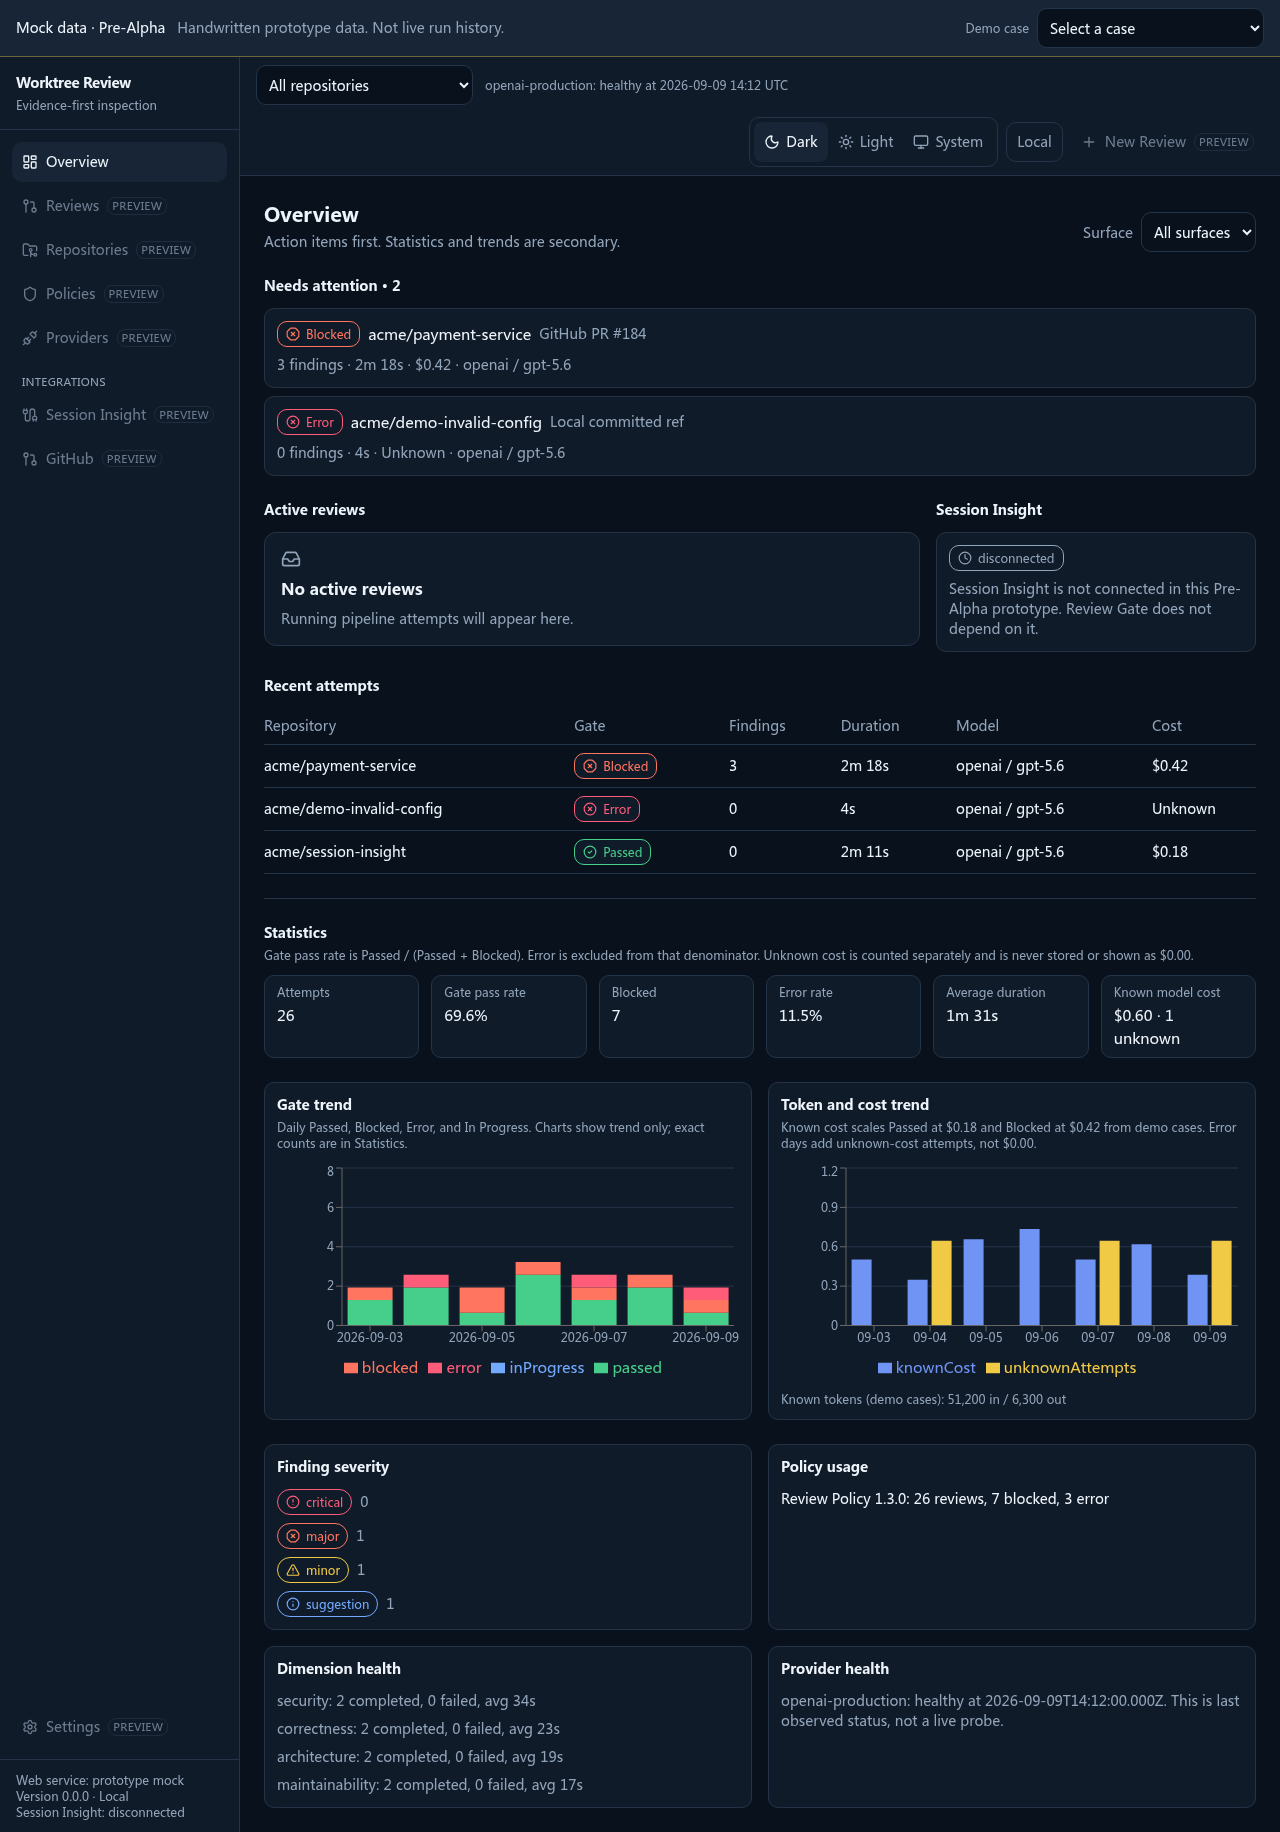
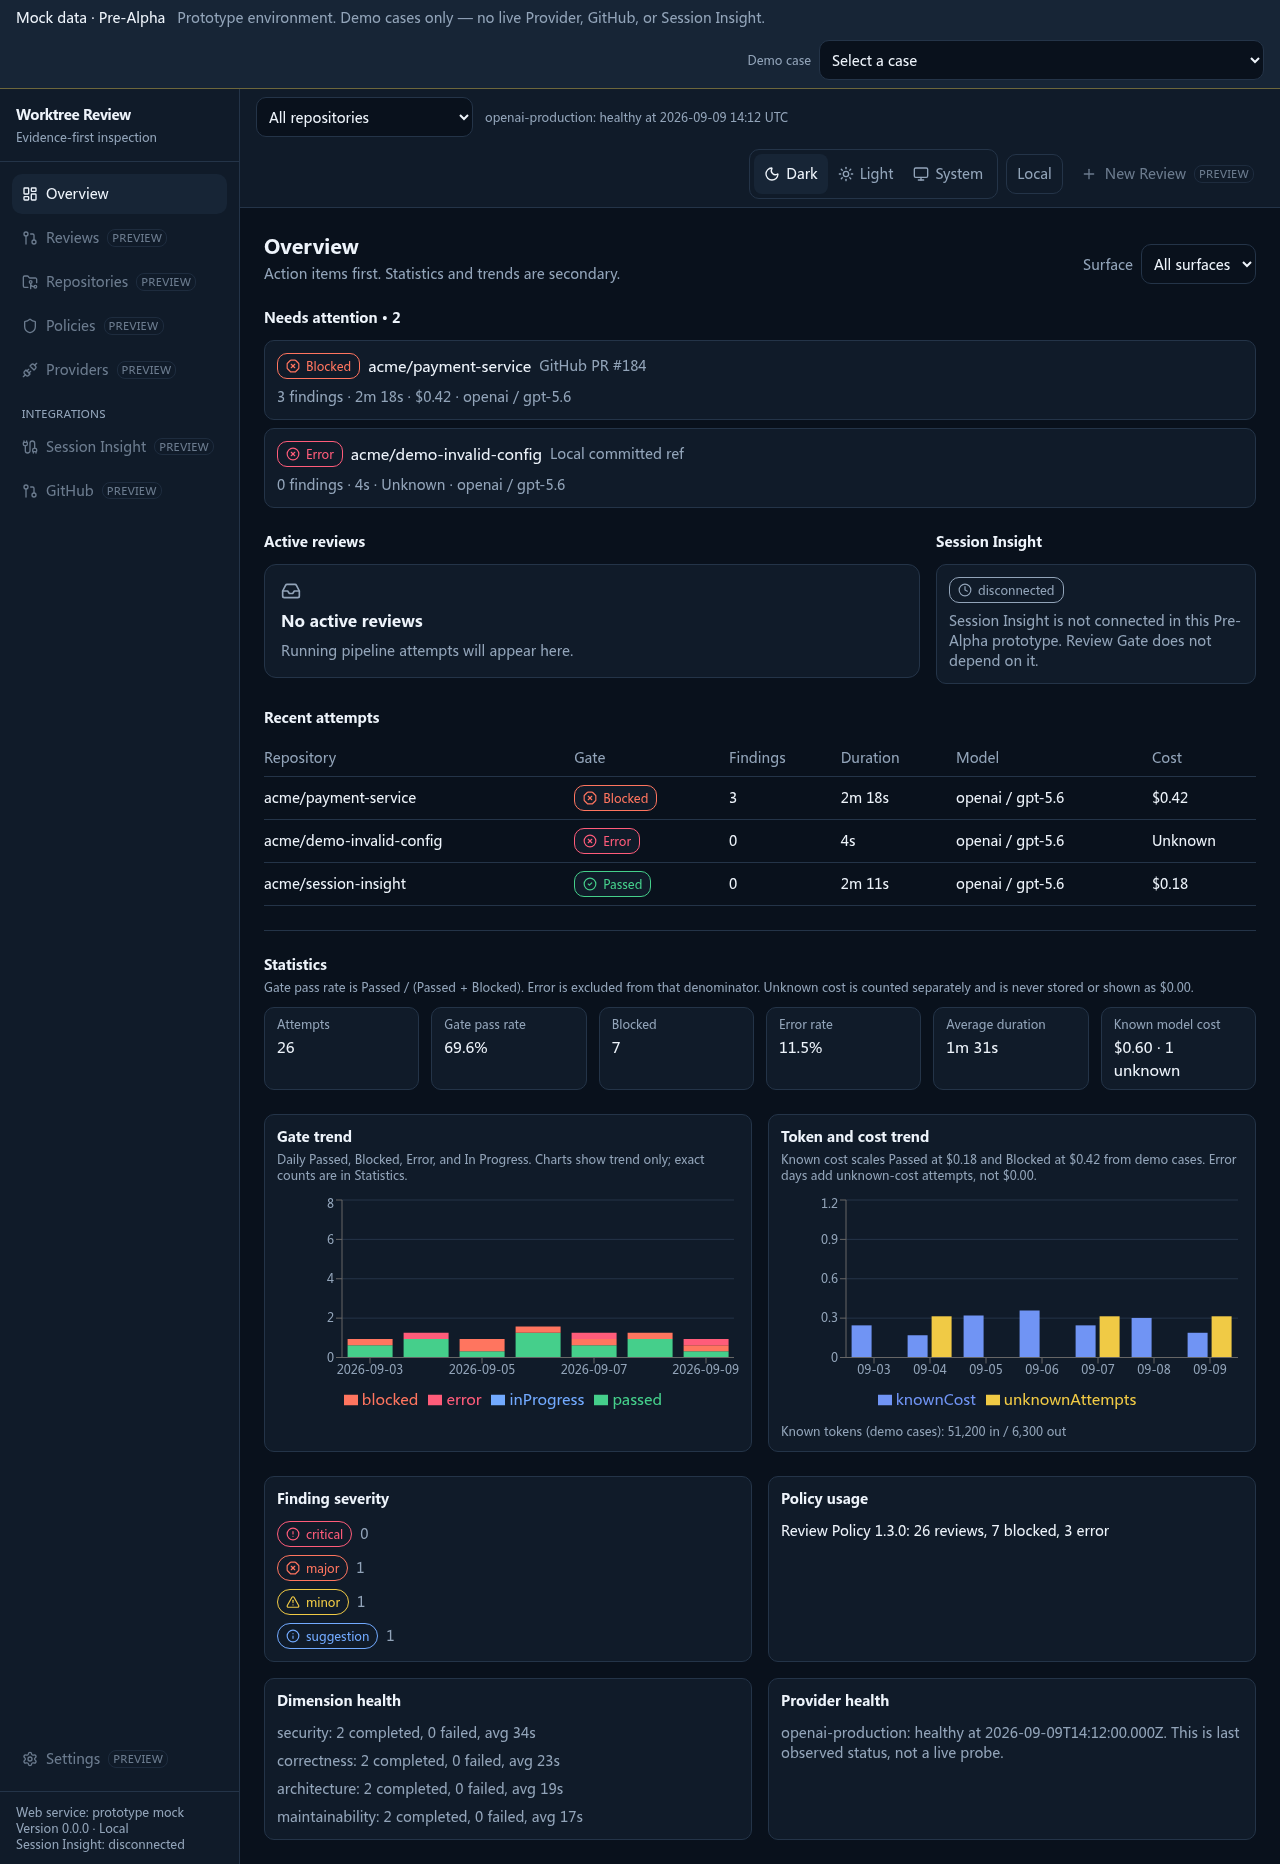
PM-010: Assemble prototype routes and unify environment disclosure
- Wire /reviews/:attemptId to the real ReviewDetailPage via a new
  ReviewDetailRoute that injects the shell's single ReviewDataSource
  (shared with Overview, demo case selector and environment badge);
  remove the foundation placeholder route and component.
- Keep one global Mock data · Pre-Alpha indicator in the shell banner;
  drop the duplicate page-level badge from ReviewDetailPage that also
  mislabeled real pipeline snapshots as prototype interaction data.
- Make the banner subtitle provenance-accurate for both handwritten
  mocks and recorded pipeline snapshots.
- Un-skip and repair the B-015 detail e2e specs that had never run
  against a real route: scope gate-state text to <main> so the case
  selector options cannot shadow them, use getByLabel for the Bypass
  disabled reason, exact match for 'Current attempt'.
- Regenerate A-014 Dashboard QA screenshots against the integrated UI.

diff --git a/frontend/e2e/review-detail.spec.ts b/frontend/e2e/review-detail.spec.ts
@@ -1,10 +1,10 @@
 /**
  * Review Detail browser scenarios (B-015).
  *
- * The /reviews/:attemptId route is assembled by PM-010 (router.tsx is
- * PM-owned). Until that handoff, these specs detect the foundation
- * placeholder and skip with an explicit reason instead of failing; after
- * wiring they exercise the real page end to end.
+ * The /reviews/:attemptId route was assembled by PM-010; these specs exercise
+ * the real page end to end inside the Application Shell. Text assertions are
+ * scoped to <main> so the demo case selector <option> labels in the shell
+ * banner (which repeat gate words like "Blocked"/"Error") cannot shadow them.
  */
 import { expect, test, type Page } from '@playwright/test'
 
@@ -14,11 +14,6 @@ const ERROR_ATTEMPT = 'attempt_01JY8E4R0R'
 
 async function gotoDetail(page: Page, attemptId: string) {
   await page.goto(`/reviews/${attemptId}`)
-  const placeholder = page.getByText('Empty route owned by the frontend foundation')
-  test.skip(
-    (await placeholder.count()) > 0,
-    'Review Detail route is wired by PM-010; run these specs after router assembly.',
-  )
 }
 
 test.describe('review detail', () => {
@@ -27,7 +22,7 @@ test.describe('review detail', () => {
 
     await expect(page.getByRole('heading', { name: 'acme/payment-service · PR #184' })).toBeVisible()
     await expect(page.getByText('Harden webhook authorization')).toBeVisible()
-    await expect(page.getByText('Blocked').first()).toBeVisible()
+    await expect(page.locator('main').getByText('Blocked').first()).toBeVisible()
     await expect(page.getByText('Authoritative attempt')).toBeVisible()
 
     for (const label of [
@@ -59,10 +54,10 @@ test.describe('review detail', () => {
 
     await page.getByRole('tab', { name: 'Coverage' }).click()
     await expect(page.getByText('Required Coverage')).toBeVisible()
-    await expect(page.getByText('Complete')).toBeVisible()
+    await expect(page.locator('main').getByText('Complete').first()).toBeVisible()
 
     await page.getByRole('tab', { name: 'Attempts' }).click()
-    await expect(page.getByText('Current attempt')).toBeVisible()
+    await expect(page.getByText('Current attempt', { exact: true })).toBeVisible()
 
     await page.getByRole('tab', { name: 'Identity & Provenance' }).click()
     await expect(page.getByText('github:acme/payment-service#184')).toBeVisible()
@@ -83,14 +78,14 @@ test.describe('review detail', () => {
 
     await expect(page.getByRole('button', { name: 'Retry' })).toBeDisabled()
     await expect(page.getByRole('button', { name: 'Bypass' })).toBeDisabled()
-    await expect(page.getByLabelText(/Bypass unavailable:/)).toBeVisible()
+    await expect(page.getByLabel(/Bypass unavailable:/)).toBeVisible()
     expect(remoteRequests).toEqual([])
   })
 
   test('error case never shows a bypass action', async ({ page }) => {
     await gotoDetail(page, ERROR_ATTEMPT)
 
-    await expect(page.getByText('Error').first()).toBeVisible()
+    await expect(page.locator('main').getByText('Error').first()).toBeVisible()
     await expect(page.getByText(/Run status: Failed/)).toBeVisible()
     await expect(page.getByRole('button', { name: 'Bypass' })).toHaveCount(0)
     await page.getByRole('tab', { name: 'Identity & Provenance' }).click()
@@ -114,6 +109,6 @@ test.describe('review detail', () => {
     await gotoDetail(page, BLOCKED_ATTEMPT)
 
     await expect(page.locator('html')).toHaveAttribute('data-theme', 'light')
-    await expect(page.getByText('Blocked').first()).toBeVisible()
+    await expect(page.locator('main').getByText('Blocked').first()).toBeVisible()
   })
 })

diff --git a/frontend/src/app/router.test.tsx b/frontend/src/app/router.test.tsx
@@ -4,7 +4,7 @@ import { afterEach, describe, expect, it } from 'vitest'
 import { OverviewPage } from '../pages/OverviewPage.tsx'
 import { ApplicationShell } from '../components/application-shell/ApplicationShell.tsx'
 import { DataSourceProvider } from './DataSourceProvider.tsx'
-import { ReviewDetailPlaceholder } from './ReviewDetailPlaceholder.tsx'
+import { ReviewDetailRoute } from './ReviewDetailRoute.tsx'
 import { ThemeProvider } from './ThemeProvider.tsx'
 import { stubMatchMedia } from '../test/match-media.ts'
 
@@ -30,7 +30,7 @@ function renderPath(path: string) {
         ),
         children: [
           { path: 'overview', element: <OverviewPage /> },
-          { path: 'reviews/:attemptId', element: <ReviewDetailPlaceholder /> },
+          { path: 'reviews/:attemptId', element: <ReviewDetailRoute /> },
         ],
       },
     ],
@@ -39,19 +39,28 @@ function renderPath(path: string) {
   return render(<RouterProvider router={router} />)
 }
 
-describe('empty routes', () => {
-  it('renders the Overview empty page', async () => {
+describe('assembled routes', () => {
+  it('renders the Overview dashboard', async () => {
     renderPath('/overview')
     await waitFor(() => {
       expect(screen.getByRole('heading', { name: 'Overview' })).toBeInTheDocument()
     })
   })
 
-  it('renders the Review Detail empty page for an attempt id', async () => {
+  it('renders the real Review Detail page for a fixture attempt id', async () => {
     renderPath('/reviews/attempt_01JY8R7F2W')
     await waitFor(() => {
-      expect(screen.getByRole('heading', { name: 'Review Detail' })).toBeInTheDocument()
+      expect(
+        screen.getByRole('heading', { name: 'acme/payment-service · PR #184' }),
+      ).toBeInTheDocument()
     })
-    expect(screen.getByTestId('attempt-id')).toHaveTextContent('attempt_01JY8R7F2W')
+  })
+
+  it('shows the unified Mock/Pre-Alpha badge and demo case selector on every route', async () => {
+    renderPath('/reviews/attempt_01JY8R7F2W')
+    await waitFor(() => {
+      expect(screen.getByTestId('prototype-badge')).toHaveTextContent('Mock data · Pre-Alpha')
+    })
+    expect(screen.getByRole('combobox', { name: 'Demo case' })).toBeInTheDocument()
   })
 })

diff --git a/frontend/src/components/application-shell/application-shell.test.tsx b/frontend/src/components/application-shell/application-shell.test.tsx
@@ -5,7 +5,7 @@ import { afterEach, describe, expect, it } from 'vitest'
 import { MOCK_DATA_BADGE } from '../../data/index.ts'
 import { OverviewPage } from '../../pages/OverviewPage.tsx'
 import { DataSourceProvider } from '../../app/DataSourceProvider.tsx'
-import { ReviewDetailPlaceholder } from '../../app/ReviewDetailPlaceholder.tsx'
+import { ReviewDetailRoute } from '../../app/ReviewDetailRoute.tsx'
 import { ThemeProvider } from '../../app/ThemeProvider.tsx'
 import { stubMatchMedia } from '../../test/match-media.ts'
 import { ApplicationShell } from './ApplicationShell.tsx'
@@ -32,7 +32,7 @@ function renderShell(path = '/overview') {
         ),
         children: [
           { path: 'overview', element: <OverviewPage /> },
-          { path: 'reviews/:attemptId', element: <ReviewDetailPlaceholder /> },
+          { path: 'reviews/:attemptId', element: <ReviewDetailRoute /> },
         ],
       },
     ],
@@ -78,8 +78,10 @@ describe('ApplicationShell', () => {
   it('keeps Overview and Review Detail routes reachable inside the shell', async () => {
     renderShell('/reviews/attempt_01JY8R7F2W')
     await waitFor(() => {
-      expect(screen.getByRole('heading', { name: 'Review Detail' })).toBeInTheDocument()
+      expect(
+        screen.getByRole('heading', { name: 'acme/payment-service · PR #184' }),
+      ).toBeInTheDocument()
     })
-    expect(screen.getByTestId('attempt-id')).toHaveTextContent('attempt_01JY8R7F2W')
+    expect(screen.getByTestId('prototype-badge')).toHaveTextContent(MOCK_DATA_BADGE)
   })
 })

diff --git a/frontend/src/pages/ReviewDetailPage.tsx b/frontend/src/pages/ReviewDetailPage.tsx
@@ -1,6 +1,5 @@
 import { useEffect, useMemo, useState } from 'react'
 import { useParams, useSearchParams } from 'react-router'
-import { Badge } from '../components/ui/badge.tsx'
 import { Button } from '../components/ui/button.tsx'
 import { EmptyState } from '../components/ui/empty-state.tsx'
 import { Skeleton } from '../components/ui/skeleton.tsx'
@@ -137,15 +136,10 @@ export function ReviewDetailPage({ dataSource }: ReviewDetailPageProps) {
 
   return (
     <main className="mx-auto w-full max-w-6xl px-6 py-6">
-      {source.environmentBadge !== null ? (
-        <div className="mb-3 flex items-center gap-2">
-          <Badge tone="warning" label={source.environmentBadge} />
-          <span className="text-meta text-text-secondary">
-            Prototype data for interaction review; not a live pipeline result.
-          </span>
-        </div>
-      ) : null}
-
+      {/* PM-010: the single Mock/Pre-Alpha environment indicator lives in the
+          ApplicationShell banner; per-case provenance (handwritten mock vs
+          real pipeline snapshot) is shown by the banner's demo case selector,
+          so this page does not repeat a source-level badge here. */}
       <ReviewHeader run={run} />
 
       <div className="mt-4">

diff --git a/frontend/e2e/empty-routes.spec.ts b/frontend/e2e/empty-routes.spec.ts
@@ -1,6 +1,6 @@
 import { expect, test } from '@playwright/test'
 
-test('Overview empty route is reachable', async ({ page }) => {
+test('Overview route is reachable', async ({ page }) => {
   await page.goto('/overview')
   await expect(page.getByRole('heading', { name: 'Overview' })).toBeVisible()
 })
@@ -11,8 +11,5 @@ test('root redirects to Overview', async ({ page }) => {
   await expect(page.getByRole('heading', { name: 'Overview' })).toBeVisible()
 })
 
-test('Review Detail empty route is reachable', async ({ page }) => {
-  await page.goto('/reviews/attempt_01JY8R7F2W')
-  await expect(page.getByRole('heading', { name: 'Review Detail' })).toBeVisible()
-  await expect(page.getByTestId('attempt-id')).toHaveText('attempt_01JY8R7F2W')
-})
+// The /reviews/:attemptId route is exercised end to end by review-detail.spec.ts
+// (wired by PM-010); this file only covers the foundation-level routes above.

diff --git a/frontend/src/app/router.tsx b/frontend/src/app/router.tsx
@@ -2,7 +2,7 @@ import { createBrowserRouter, Navigate } from 'react-router'
 import { ApplicationShell } from '../components/application-shell/ApplicationShell.tsx'
 import { OverviewPage } from '../pages/OverviewPage.tsx'
 import { DataSourceProvider } from './DataSourceProvider.tsx'
-import { ReviewDetailPlaceholder } from './ReviewDetailPlaceholder.tsx'
+import { ReviewDetailRoute } from './ReviewDetailRoute.tsx'
 
 export const router = createBrowserRouter([
   {
@@ -15,7 +15,7 @@ export const router = createBrowserRouter([
     children: [
       { index: true, element: <Navigate to="/overview" replace /> },
       { path: 'overview', element: <OverviewPage /> },
-      { path: 'reviews/:attemptId', element: <ReviewDetailPlaceholder /> },
+      { path: 'reviews/:attemptId', element: <ReviewDetailRoute /> },
     ],
   },
 ])

diff --git a/frontend/src/pages/ReviewDetailPage.test.tsx b/frontend/src/pages/ReviewDetailPage.test.tsx
@@ -26,13 +26,14 @@ function renderPage(path: string): ReturnType<typeof createMemoryRouter> {
 }
 
 describe('ReviewDetailPage', () => {
-  it('loads the blocked fixture and renders the header with the mock badge', async () => {
+  it('loads the blocked fixture and renders the header', async () => {
     renderPage('/reviews/attempt_01JY8R7F2W')
 
     expect(
       await screen.findByRole('heading', { name: 'acme/payment-service · PR #184' }),
     ).toBeInTheDocument()
-    expect(screen.getByText('Mock data · Pre-Alpha')).toBeInTheDocument()
+    // PM-010: the Mock/Pre-Alpha indicator is asserted once at the shell level
+    // (see router.test.tsx), not repeated per page.
     expect(screen.getAllByText('Blocked').length).toBeGreaterThan(0)
   })
 

diff --git a/frontend/src/components/application-shell/PrototypeBanner.tsx b/frontend/src/components/application-shell/PrototypeBanner.tsx
@@ -18,7 +18,9 @@ export function PrototypeBanner() {
       <span className="font-medium" data-testid="prototype-badge">
         {badge}
       </span>
-      <span className="text-text-secondary">Handwritten prototype data. Not live run history.</span>
+      <span className="text-text-secondary">
+        Prototype environment. Demo cases only — no live Provider, GitHub, or Session Insight.
+      </span>
       <label className="ml-auto flex items-center gap-2 text-xs text-text-secondary">
         Demo case
         <select

diff --git a/frontend/src/app/ReviewDetailRoute.tsx b/frontend/src/app/ReviewDetailRoute.tsx
@@ -1,0 +1,12 @@
+import { ReviewDetailPage } from '../pages/ReviewDetailPage.tsx'
+import { useDataSource } from './data-source.ts'
+
+/**
+ * PM-010 final assembly: the detail page consumes the shell's single
+ * ReviewDataSource instance (shared with the Overview, the demo case selector
+ * and the environment badge) instead of constructing a second one.
+ */
+export function ReviewDetailRoute() {
+  const { source } = useDataSource()
+  return <ReviewDetailPage dataSource={source} />
+}
